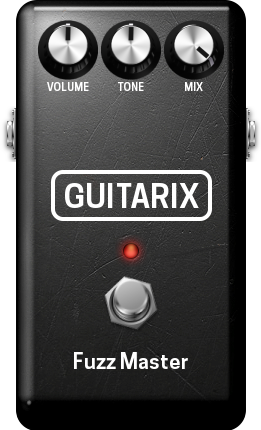
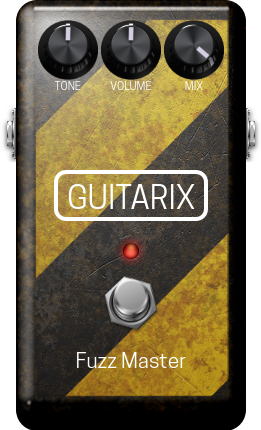
Changed GUI GxFuzzMaster

diff --git a/plugins-fixed/gx_fumaster.lv2/modgui/stylesheet-gxfuzzmaster.css b/plugins-fixed/gx_fumaster.lv2/modgui/stylesheet-gxfuzzmaster.css
@@ -37,6 +37,14 @@
     width:421px;
 }
 
+/* PORTS
+================================================ */
+
+.mod-pedal-boxy{{{cns}}}.mod-boxy50 .mod-pedal-input,
+.mod-pedal-boxy{{{cns}}}.mod-boxy50 .mod-pedal-output {
+    top: 66px;
+}
+
 /* = PLUGIN'S AUTHOR
 ================================================ */
 .mod-pedal-boxy{{{cns}}} .mod-plugin-brand {
@@ -68,6 +76,10 @@
 
 .mod-pedal-boxy{{{cns}}}.mod-boxy50 .mod-plugin-brand {
   top:16px;
+}
+
+.mod-pedal-boxy{{{cns}}}.mod-one-footswitch-presets .mod-plugin-brand {
+  top:12px;
 }
 
 
@@ -123,6 +135,10 @@
   top:105px;
 }
 
+.mod-pedal-boxy{{{cns}}}.mod-one-footswitch-presets .mod-light {
+  top:120px;
+}
+
 
 /* = FOOTSWITCH
 ================================================ */
@@ -155,6 +171,10 @@
     top:140px;
 }
 
+.mod-pedal-boxy{{{cns}}}.mod-one-footswitch-presets .mod-footswitch {
+    top:170px;
+}
+
 
 /* = KNOBS
 ================================================ */
@@ -166,6 +186,15 @@
 }
 .mod-pedal-boxy{{{cns}}} .top {
     margin-top:0px !important;
+}
+
+.mod-pedal-boxy{{{cns}}}.mod-one-footswitch-presets .mod-control-group {
+    margin:10px !important;
+    top:75px;
+}
+
+.mod-pedal-boxy{{{cns}}}.mod-one-footswitch-presets .mod-control-group > select {
+    width:100%;
 }
 
 .mod-pedal-boxy{{{cns}}} .mod-control-group .mod-knob {
@@ -344,7 +373,6 @@
     display:block;
     font-size:11px;
     font-weight:bold;
-    height:7px;
     line-height:1;
     margin-bottom:3px;
     overflow:hidden;

diff --git a/plugins-fixed/gx_fumaster.lv2/modgui/icon-gxfuzzmaster.html b/plugins-fixed/gx_fumaster.lv2/modgui/icon-gxfuzzmaster.html
@@ -5,7 +5,7 @@
     <div class="mod-light on" mod-role="bypass-light"></div>
     <div class="mod-control-group mod-{{knob}} clearfix">
         {{#controls}}
-        <div class="mod-knob">
+        <div class="mod-knob" title="{{comment}}">
             <div class="mod-knob-image" mod-role="input-control-port" mod-port-symbol="{{symbol}}"></div>
             <span class="mod-knob-title">{{name}}</span>
         </div>
